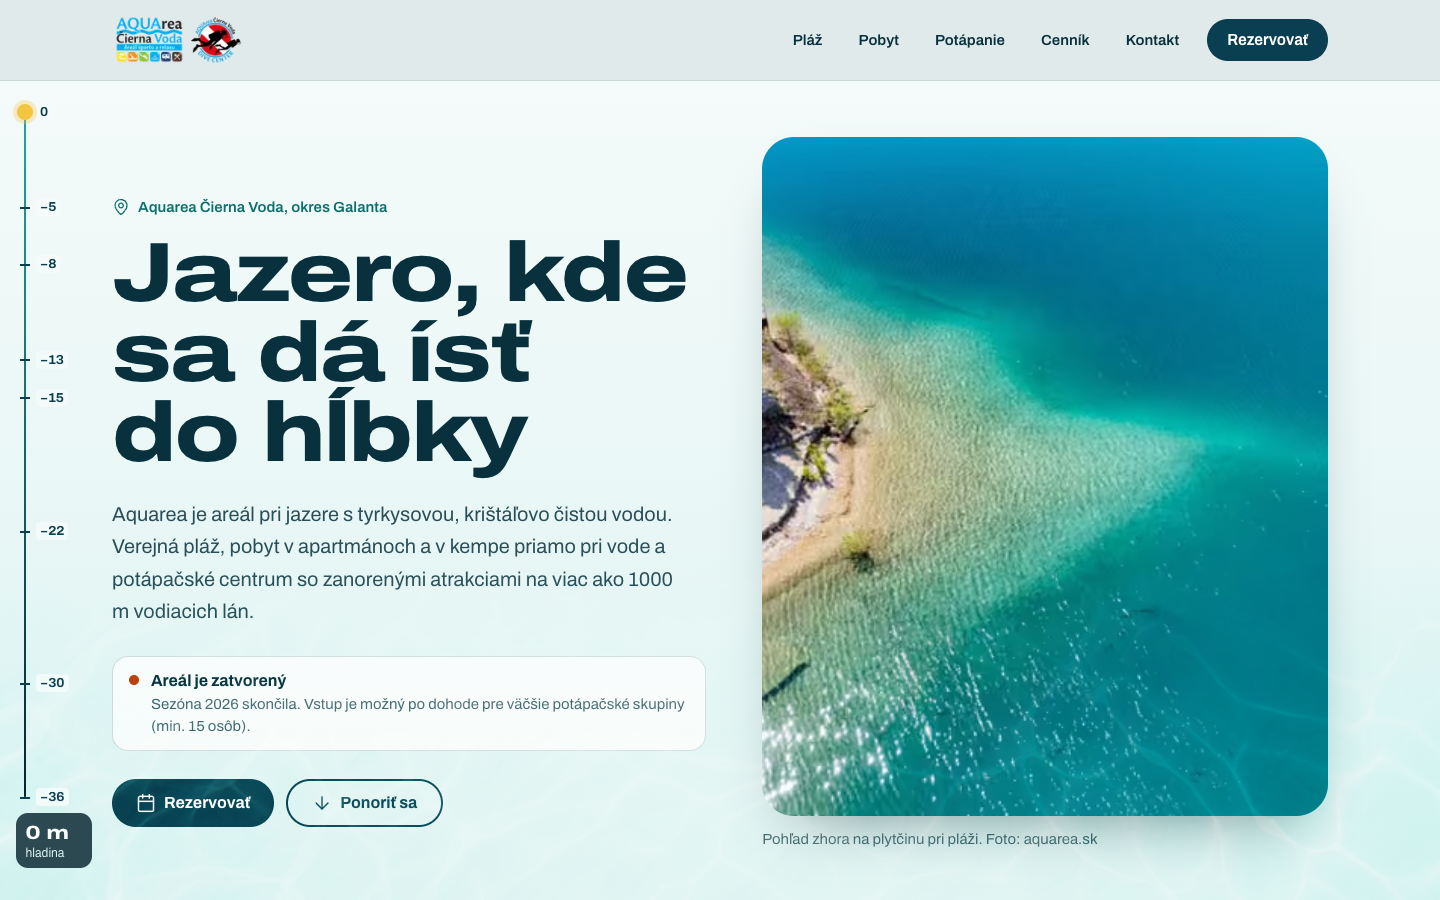
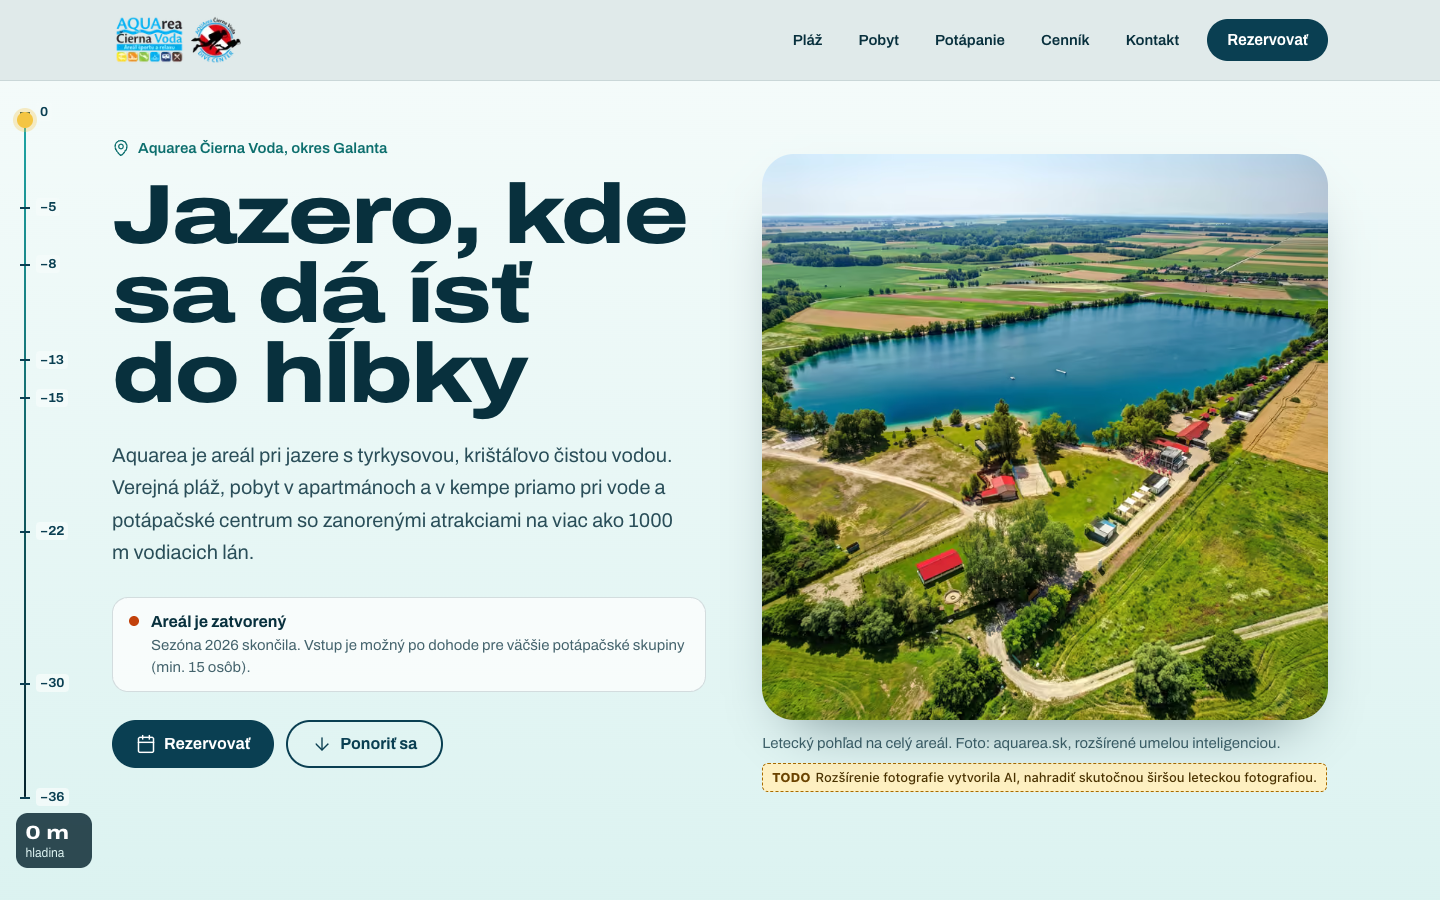
V1: hero uses the AI-extended aerial placeholder (whole area visible, TODO, AVIF); pricing section reorganised into three labelled groups like V8

diff --git a/DECISIONS.md b/DECISIONS.md
@@ -285,3 +285,7 @@ Measured on the production preview, same machine, Lighthouse mobile median of 3 
 
 Extras that usually add on: EN + HU translation (500 – 1 500 for the three languages' set-up and review), a real photo/drone/underwater shoot (500 – 1 500), hosting + maintenance (30 – 80 per month), booking-engine integration beyond links (2 000 +, quote separately), accessibility audit with a screen-reader pass (400 – 1 000).
 **Recommendation to pitch:** V8 as the main offer (≈ 5 000 for the full site), V7 as the upgrade and V6 as the safe fallback; keep V9 for a Dive Center landing page. **Caveats:** the AI placeholder images and the diver mascot rest on the owner's rule-5 exceptions (V7/V8/V9 pages only), so replace them with real photos before launch; the switch of `/` still needs the inner pages moved to the new look; all checks were headless Chrome on one Mac, not real devices.
+
+### 2026-10-03 12:30 · [auto] V1 Ponor: hero photo and pricing (owner request)
+- **Hero photo:** the AI-extended square aerial (`v8-aerial-extended.jpg`, placeholder) replaces the cropped drone photo in the V1 hero (`aspect-square`, so the whole area shows instead of a 5:6 crop). Fourth scoped rule-5 exception in AGENTS.md (V1 only, committed on its own); a caption says it is AI-extended and a visible TODO says to replace it with a real wider photo. No new Gemini image (6 / 8). Performance: V1 scored 89 before this change; with the new image it dropped to 83–84 (a 141 KB WebP was the LCP element), so it is now served as AVIF (33–134 KB, `sizes` matched to the layout) and scores 88 (one run 100). V1 was already just under the 90 bar before this change; axe stays 0.
+- **Pricing section:** the wall of 9 cards (a 4-column grid of equal boxes) is replaced by the structure of V8's "Cenník v skratke": three labelled groups (Plážová zóna, Prémium zóna: kemping a apartmány, Dive Center), each a list of label + big price rows with hairlines, no card boxes. The same real prices from `prices.json`, the zone name moved to the group heading so rows don't repeat it. axe 0 at 375 and 1440.
